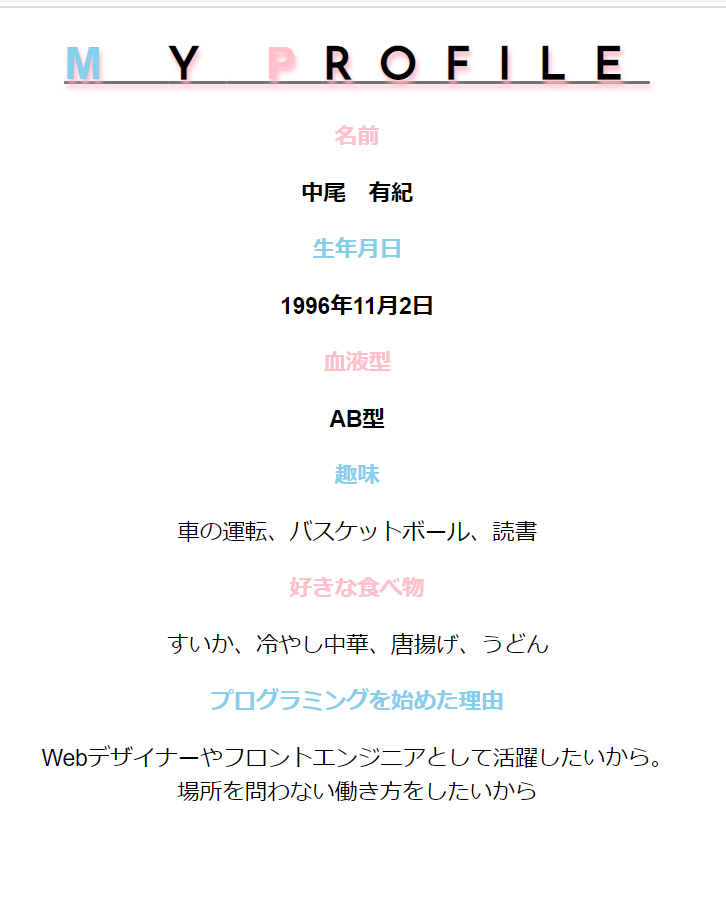
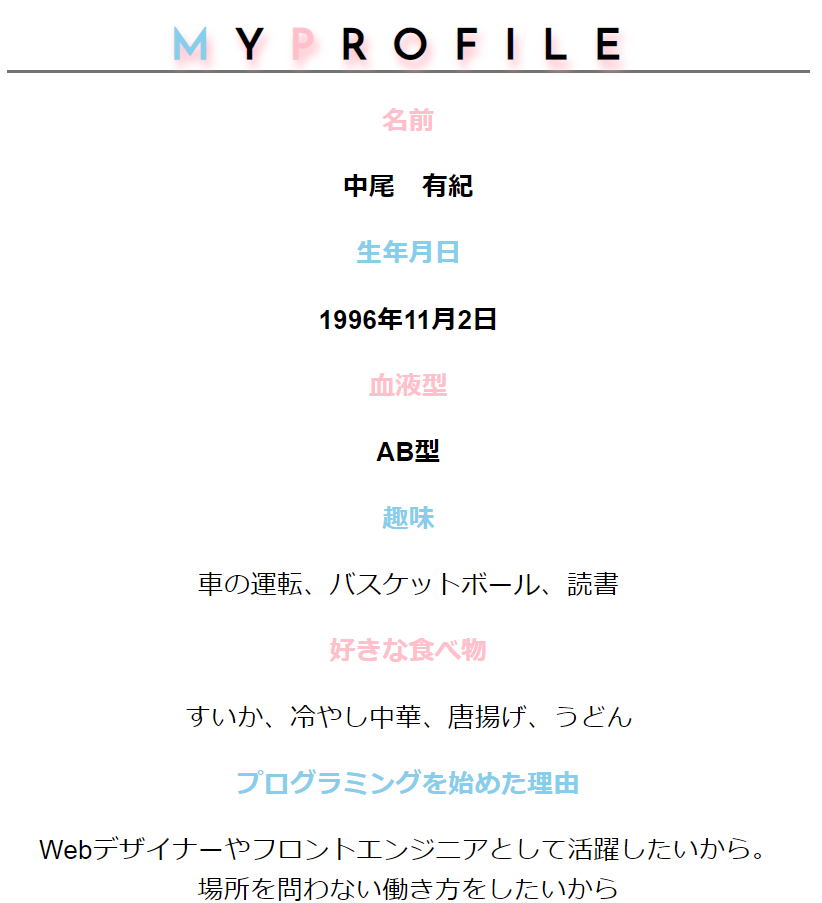
Add files via upload

diff --git a/kadai_014/style.css b/kadai_014/style.css
@@ -17,7 +17,7 @@
 
 .big {
   font-size: 2rem;
-
+  font-family: 'Josefin Sans', sans-serif;
 }
 
 .pink {
